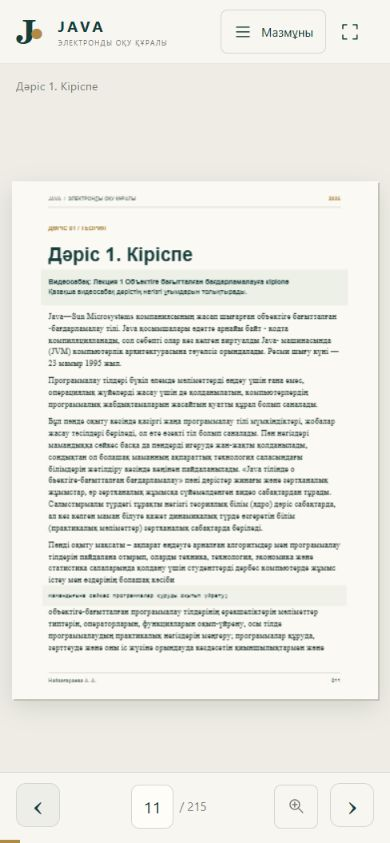
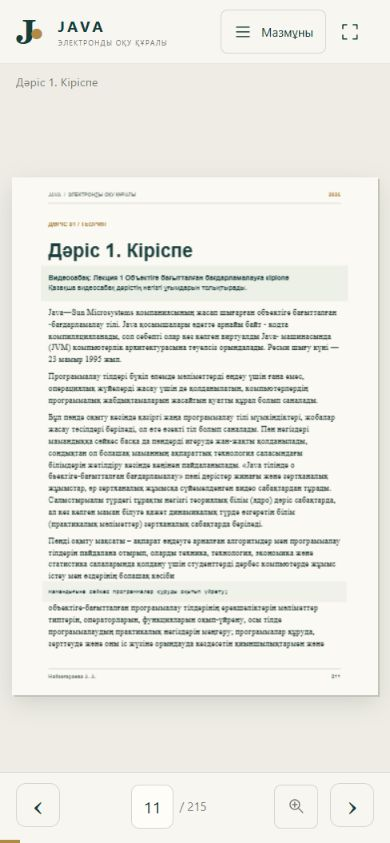
Restore phone page animations and adjustable zoom

diff --git a/app.js b/app.js
@@ -7,6 +7,8 @@ pdfjs.GlobalWorkerOptions.workerSrc = './vendor/pdf.worker.mjs';
 const $ = id => document.getElementById(id);
 let pdf, profile, pages = [], index = 0, zoom = 1, busy = false, renderVersion = 0;
 let gesture = null, curl = null, suppressClickUntil = 0, resizeTimer, warmTimer;
+let pinch = null, pan = null;
+const pointers = new Map();
 const cache = new Map(), pending = new Map();
 const reducedMotion = () => matchMedia('(prefers-reduced-motion: reduce)').matches;
 const phoneQuery = matchMedia('(max-width: 760px), (max-width: 1000px) and (max-height: 600px)');
@@ -23,9 +25,7 @@ function layout(i = index) {
   const count = pageStep(), entries = pages.slice(i, i + count), stage = $('stage');
   const width = Math.max(80, stage.clientWidth - (count === 1 ? 24 : 60));
   const height = Math.max(80, stage.clientHeight - 40);
-  // Phone pages use the available width; short landscape screens scroll
-  // vertically instead of shrinking the text into an unreadable thumbnail.
-  const scale = (count === 1 ? width / profile.width : Math.min(width / (profile.width * 2), height / profile.height)) * zoom;
+  const scale = Math.min(width / (profile.width * count), height / profile.height) * zoom;
   return {entries, scale, ratio: Math.min(devicePixelRatio || 1, 2)};
 }
 async function canvasFor(entry, width) {
@@ -77,7 +77,7 @@ async function render(direction = 0) {
   }));
   if (version !== renderVersion) return;
   let turning = curl;
-  if (direction && pageStep() === 2 && !reducedMotion() && zoom === 1 && !turning) turning = makeCurl(book, direction);
+  if (direction && !reducedMotion() && zoom === 1 && !turning) turning = makeCurl(book, direction);
   book.replaceChildren(...canvases);
   if (canvases.length === 1 && pageStep() === 2) {
     const blank = document.createElement('div'); blank.className = 'blank-page';
@@ -101,6 +101,7 @@ async function render(direction = 0) {
       }
     }
   }, 100);
+  return true;
 }
 async function go(target, direction = 0) {
   if (!pdf || busy || !Number.isFinite(target)) return;
@@ -109,7 +110,7 @@ async function go(target, direction = 0) {
   busy = true;
   const previous = index;
   try {
-    index = next; zoom = 1; updateZoom(); $('stage').scrollTo(0, 0);
+    index = next; updateZoom(); $('stage').scrollTo(0, 0);
     await render(direction);
   } catch (error) {
     console.error(error); index = previous;
@@ -122,6 +123,7 @@ function setContents(open) {
   document.body.classList.toggle('contents-open', open);
   document.querySelector('main').inert = open && phoneQuery.matches;
   document.querySelector('header').inert = open && phoneQuery.matches;
+  $('zoomControls').inert = open && phoneQuery.matches;
   requestAnimationFrame(() => render().catch(console.error));
   if (open) {
     $('closeSide').focus();
@@ -147,18 +149,47 @@ function updateZoom() {
   document.body.classList.toggle('zoomed', zoom > 1);
   $('zoomToggle').setAttribute('aria-pressed', String(zoom > 1));
   $('zoomToggle').querySelector('span').textContent = zoom > 1 ? 'Қалыпты көрініс' : 'Үлкейту';
+  $('zoomControls').hidden = zoom <= 1;
+  $('zoomRange').value = Math.round(zoom * 100);
+  $('zoomValue').textContent = `${Math.round(zoom * 100)}%`;
+  $('zoomOut').disabled = zoom <= 1;
+  $('zoomIn').disabled = zoom >= 4;
+}
+function zoomAnchor(point) {
+  const book = $('book').getBoundingClientRect(), stage = $('stage').getBoundingClientRect();
+  const x = point?.clientX ?? (stage.left + stage.width / 2);
+  const y = point?.clientY ?? (stage.top + stage.height / 2);
+  return {x:(x-book.left)/book.width,y:(y-book.top)/book.height,screenX:x-stage.left,screenY:y-stage.top};
+}
+function positionAnchor(anchor) {
+  if (zoom === 1) { $('stage').scrollTo(0,0); return; }
+  const stage = $('stage'), book = $('book');
+  stage.scrollTo(Math.max(0, book.offsetLeft + anchor.x * book.offsetWidth - anchor.screenX), Math.max(0, book.offsetTop + anchor.y * book.offsetHeight - anchor.screenY));
+}
+function previewZoom(value, anchor) {
+  const previous = zoom;
+  zoom = Math.max(1,Math.min(4,value)); updateZoom();
+  const factor = zoom / previous;
+  $('book').querySelectorAll(':scope > canvas, :scope > .blank-page').forEach(canvas => {
+    canvas.style.width = `${parseFloat(canvas.style.width) * factor}px`;
+    canvas.style.height = `${parseFloat(canvas.style.height) * factor}px`;
+  });
+  const links = $('book').querySelector('.pdf-links');
+  if (links) {
+    const scale = (Number(links.dataset.scale)||1)*factor;
+    links.dataset.scale = scale; links.style.transformOrigin = '0 0'; links.style.transform = `scale(${scale})`;
+  }
+  positionAnchor(anchor);
+}
+async function changeZoom(value, point) {
+  if (!pdf || busy || pinch) return;
+  const anchor = zoom === 1 && !point ? {x:0,y:0,screenX:0,screenY:0} : zoomAnchor(point);
+  previewZoom(value,anchor);
+  try { if (await render()) positionAnchor(anchor); }
+  catch(error) { console.error(error); toast('Үлкейту мүмкін болмады.'); }
 }
 async function toggleZoom(point) {
-  if (!pdf || busy) return;
-  const box = $('book').getBoundingClientRect();
-  const x = point ? (point.clientX - box.left) / box.width : phoneQuery.matches ? 0 : .5;
-  const y = point ? (point.clientY - box.top) / box.height : phoneQuery.matches ? 0 : .3;
-  zoom = zoom === 1 ? (phoneQuery.matches ? 1.7 : 1.6) : 1; updateZoom();
-  try {
-    await render();
-    if (zoom > 1) $('stage').scrollTo(Math.max(0, x * $('book').offsetWidth - $('stage').clientWidth / 2), Math.max(0, y * $('book').offsetHeight - $('stage').clientHeight / 2));
-    else $('stage').scrollTo(0, 0);
-  } catch (error) { console.error(error); toast('Үлкейту мүмкін болмады.'); }
+  await changeZoom(zoom === 1 ? 1.7 : 1,point);
 }
 async function loadBook() {
   $('error').hidden = true; $('loading').hidden = false;
@@ -183,6 +214,11 @@ $('pageInput').onchange = async e => { const target = Number(e.target.value); if
 $('pageInput').onkeydown = e => { if (e.key === 'Enter') { e.preventDefault(); $('pageInput').onchange(e); } };
 $('sideToggle').onclick = () => setContents($('sidebar').hidden); $('closeSide').onclick = () => setContents(false);
 $('zoomToggle').onclick = () => toggleZoom(); $('retry').onclick = loadBook;
+$('zoomOut').onclick = () => changeZoom(zoom-.25);
+$('zoomIn').onclick = () => changeZoom(zoom+.25);
+$('zoomValue').onclick = () => changeZoom(1);
+$('zoomRange').oninput = e => { if (!busy && !pinch) previewZoom(Number(e.target.value)/100,zoomAnchor()); };
+$('zoomRange').onchange = () => changeZoom(zoom);
 document.querySelector('.brand').onclick = e => { e.preventDefault(); go(0); };
 $('fullscreen').onclick = async () => {
   try { if (document.fullscreenElement) await document.exitFullscreen(); else await document.documentElement.requestFullscreen(); }
@@ -207,16 +243,46 @@ document.addEventListener('pointerdown', preparePageSound, {passive: true});
 window.addEventListener('resize', () => { clearTimeout(resizeTimer); resizeTimer = setTimeout(() => { if (!busy && !gesture) render().catch(console.error); }, 150); });
 phoneQuery.addEventListener('change', async () => {
   await cancelGesture();
+  pointers.clear(); pinch=null; pan=null;
   zoom = 1; updateZoom();
   if (pdf) index = normalizePage(index);
   setContents(false);
   $('stage').scrollTo(0, 0);
 });
 $('stage').addEventListener('pointerdown', e => {
-  if (!pdf || busy || zoom !== 1 || e.target.closest('.pdf-link') || e.pointerType === 'mouse' && e.button !== 0) return;
+  if (!pdf || busy || e.pointerType === 'mouse' && e.button !== 0) return;
+  if (e.pointerType === 'touch') {
+    pointers.set(e.pointerId,{clientX:e.clientX,clientY:e.clientY});
+    if (pointers.size === 2) {
+      gesture = null; pan = null;
+      if (curl) { curl.canvas.remove(); curl.old.style.visibility = ''; curl = null; }
+      const [a,b] = [...pointers.values()];
+      const center = {clientX:(a.clientX+b.clientX)/2,clientY:(a.clientY+b.clientY)/2};
+      pinch = {distance:Math.max(1,Math.hypot(a.clientX-b.clientX,a.clientY-b.clientY)),zoom,anchor:zoomAnchor(center)};
+      for (const id of pointers.keys()) $('stage').setPointerCapture(id);
+      suppressClickUntil = performance.now()+500;
+      return;
+    }
+  }
+  if (zoom > 1) {
+    if (e.target.closest('.pdf-link')) return;
+    pan = {id:e.pointerId,x:e.clientX,y:e.clientY,left:$('stage').scrollLeft,top:$('stage').scrollTop};
+    $('stage').setPointerCapture(e.pointerId); return;
+  }
+  if (e.target.closest('.pdf-link')) return;
   gesture = {id: e.pointerId, x: e.clientX, y: e.clientY, time: performance.now(), direction: 0};
 });
 $('stage').addEventListener('pointermove', e => {
+  if (pointers.has(e.pointerId)) pointers.set(e.pointerId,{clientX:e.clientX,clientY:e.clientY});
+  if (pinch && pointers.size >= 2) {
+    e.preventDefault(); const [a,b]=[...pointers.values()];
+    previewZoom(pinch.zoom*Math.hypot(a.clientX-b.clientX,a.clientY-b.clientY)/pinch.distance,pinch.anchor); return;
+  }
+  if (pan?.id === e.pointerId) {
+    e.preventDefault(); $('stage').scrollTo(pan.left+pan.x-e.clientX,pan.top+pan.y-e.clientY);
+    if (Math.hypot(e.clientX-pan.x,e.clientY-pan.y)>8) suppressClickUntil=performance.now()+400;
+    return;
+  }
   if (!gesture || gesture.id !== e.pointerId) return;
   const dx = e.clientX - gesture.x, dy = e.clientY - gesture.y;
   if (!gesture.direction) {
@@ -225,7 +291,7 @@ $('stage').addEventListener('pointermove', e => {
     const direction = dx < 0 ? 1 : -1;
     if (direction > 0 && index + pageStep() >= pages.length || direction < 0 && index === 0) { gesture = null; return; }
     gesture.direction = direction; $('stage').setPointerCapture(e.pointerId);
-    if (pageStep() === 2 && !reducedMotion()) curl = makeCurl($('book'), direction, gesture.y);
+    if (!reducedMotion()) curl = makeCurl($('book'), direction, gesture.y);
   }
   e.preventDefault(); gesture.distance = Math.max(0, dx * -gesture.direction);
   if (curl) { curl.dragY = Math.max(-.4, Math.min(.4, dy / curl.height)); paintCurl(curl, Math.min(.88, gesture.distance / curl.width)); }
@@ -235,6 +301,13 @@ async function cancelGesture() {
   if (curl) { busy = true; try { await finishCurl(curl, 0); } finally { curl.old.style.visibility = ''; curl = null; busy = false; } }
 }
 $('stage').addEventListener('pointerup', async e => {
+  pointers.delete(e.pointerId);
+  if (pinch) {
+    const anchor=pinch.anchor; pinch=null; pan=null; gesture=null;
+    suppressClickUntil=performance.now()+500;
+    if (await render()) positionAnchor(anchor); return;
+  }
+  if (pan?.id === e.pointerId) { pan=null; return; }
   if (!gesture || gesture.id !== e.pointerId) return;
   const current = gesture; gesture = null; if (!current.direction) return;
   suppressClickUntil = performance.now() + 400;
@@ -242,6 +315,13 @@ $('stage').addEventListener('pointerup', async e => {
   if (distance > Math.min(85, $('stage').clientWidth * .18) || distance > 28 && distance / elapsed > .35) await go(index + current.direction * pageStep(), current.direction);
   else await cancelGesture();
 });
-$('stage').addEventListener('pointercancel', cancelGesture);
+$('stage').addEventListener('pointercancel', async e => {
+  pointers.delete(e.pointerId); pinch=null; pan=null; await cancelGesture();
+  if (pdf) await render();
+});
+$('stage').addEventListener('click', e => { if (performance.now()<suppressClickUntil) { e.preventDefault(); e.stopPropagation(); } },true);
+$('stage').addEventListener('wheel', e => {
+  if (e.ctrlKey) { e.preventDefault(); changeZoom(zoom*Math.exp(-e.deltaY*.002),e); }
+},{passive:false});
 $('stage').addEventListener('dblclick', e => { if (!e.target.closest('.pdf-link') && performance.now() > suppressClickUntil) toggleZoom(e); });
 loadBook();

diff --git a/index.html b/index.html
@@ -2,7 +2,7 @@
 <html lang="kk"><head>
 <meta charset="utf-8"><meta name="viewport" content="width=device-width,initial-scale=1,viewport-fit=cover"><meta name="theme-color" content="#183e3c">
 <meta name="description" content="Java тілінде объектіге бағытталған бағдарламалау. 15 дәріс, зертханалық жұмыстар және білімді бақылау. Электронды оқу құралы, 2026.">
-<title>JAVA · Электронды оқу құралы</title><link rel="stylesheet" href="style.css?v=20261005-mobile"><link rel="stylesheet" href="reader.css?v=20261005-mobile"></head>
+<title>JAVA · Электронды оқу құралы</title><link rel="stylesheet" href="style.css?v=20261005-mobile-v3"><link rel="stylesheet" href="reader.css?v=20261005-mobile-v3"></head>
 <body>
 <header>
 <a class="brand" href="./" aria-label="Кітаптың басына"><span class="brand-mark">J<span>•</span></span><span class="brand-copy"><b>JAVA</b><small>ЭЛЕКТРОНДЫ ОҚУ ҚҰРАЛЫ</small></span></a>
@@ -14,5 +14,6 @@
 <section id="reader" aria-label="Электронды кітап"><button id="prev" class="arrow" aria-label="Алдыңғы екі бет">‹</button><div id="stage"><div id="book" class="double" aria-live="off"></div></div><button id="next" class="arrow" aria-label="Келесі екі бет">›</button></section>
 <footer><div class="footer-note">Найзағараева А. А.</div><div class="navigation"><label for="pageInput" class="sr-only">Бет нөмірі</label><input id="pageInput" type="number" inputmode="numeric" enterkeyhint="go" min="1" value="1"><span id="pageTotal"></span></div><button id="zoomToggle" aria-pressed="false" title="Оқу үшін үлкейту"><svg viewBox="0 0 24 24" aria-hidden="true"><circle cx="10" cy="10" r="6"/><path d="m15 15 5 5M7 10h6m-3-3v6"/></svg><span>Үлкейту</span></button></footer><div class="reading-progress" aria-hidden="true"><span id="progressFill"></span></div></main></div>
 <div id="loading" role="status"><div class="loading-mark">J<span>•</span></div><span id="loadingText">Кітап ашылуда…</span><div class="loading-line"></div></div>
+<div id="zoomControls" hidden role="group" aria-label="Масштабты өзгерту"><div class="zoom-buttons"><button id="zoomOut" aria-label="Кішірейту">−</button><button id="zoomValue" title="Бетке сыйдыру" aria-label="Бетке сыйдыру">100%</button><button id="zoomIn" aria-label="Үлкейту қадамы">＋</button></div><label for="zoomRange" class="sr-only">Масштаб</label><input id="zoomRange" type="range" min="100" max="400" step="5" value="100" aria-label="Масштаб"></div>
 <div id="error" hidden role="alert"><h1>Кітапты ашу мүмкін болмады</h1><p id="errorText"></p><button id="retry">Қайта ашу</button></div><div id="toast" role="status"></div>
-<script type="module" src="app.js?v=20261005-mobile"></script></body></html>
+<script type="module" src="app.js?v=20261005-mobile-v3"></script></body></html>

diff --git a/style.css b/style.css
@@ -35,3 +35,6 @@ button,a,input{-webkit-tap-highlight-color:transparent}button{touch-action:manip
  header{height:52px}.workspace{height:calc(100dvh - 52px)}.topline{height:30px;min-height:30px}footer{height:56px;min-height:56px}.arrow{bottom:calc(9px + env(safe-area-inset-bottom))}
 }
 @media(max-width:360px){.brand-copy small{font-size:6px;letter-spacing:.6px}.header-tools{gap:0}#fullscreen{display:none}#sideToggle{padding:10px;font-size:11px}footer{padding-left:68px;padding-right:68px}.navigation{gap:4px}#zoomToggle{min-width:40px;width:40px}}
+#stage{position:relative}#zoomControls{position:fixed;z-index:11;left:50%;transform:translateX(-50%);bottom:80px;width:260px;padding:6px 12px 10px;background:#f8f6f0f5;border:1px solid var(--line);border-radius:14px;box-shadow:0 8px 25px #183e3c25;backdrop-filter:blur(12px)}.zoom-buttons{display:flex;align-items:center;justify-content:space-between}.zoom-buttons button{height:44px;min-width:44px;font-size:23px}#zoomValue{font-size:13px;font-weight:600}#zoomRange{width:100%;height:28px;margin:0;accent-color:var(--ink);touch-action:none;cursor:pointer}body.zoomed #stage{touch-action:none;cursor:grab}body.zoomed #stage:active{cursor:grabbing}
+@media(max-width:760px),(max-width:1000px) and (max-height:600px){#stage{touch-action:none}#zoomControls{bottom:calc(82px + env(safe-area-inset-bottom));width:min(260px,calc(100vw - 32px))}body.zoomed #stage{touch-action:none}.topline{height:36px;min-height:36px}#stage{padding:12px}}
+@media(max-width:1000px) and (max-height:500px){#zoomControls{left:auto;right:16px;transform:none;bottom:calc(66px + env(safe-area-inset-bottom));width:220px}}

diff --git a/README.md b/README.md
@@ -1,8 +1,8 @@
 # JAVA — электронды оқу құралы, 2026
 
-Читалка сразу открывает output/pdf/java-reader.pdf. На компьютере — два книжных листа, на телефоне — одна страница во всю ширину. Доступны перелистывание, оглавление, увеличение и полный экран. Позиция сохраняется локально. Названия лекций открывают видеосабақ в новой вкладке. Интерфейс на казахском языке.
+Читалка сразу открывает output/pdf/java-reader.pdf. На компьютере — два книжных листа, на телефоне — одна страница целиком в экране. Доступны перелистывание, оглавление, увеличение и полный экран. Позиция сохраняется локально. Названия лекций открывают видеосабақ в новой вкладке. Интерфейс на казахском языке.
 
-На телефоне кнопки перелистывания находятся в нижней панели, оглавление открывается на весь экран, а числовая клавиатура помогает перейти к странице. Свайп перелистывает один лист. Увеличенную страницу можно перемещать пальцем; на коротком экране доступна вертикальная прокрутка. Учитываются безопасные отступы экрана. В адресах CSS и основного JavaScript указан номер версии для обновления браузерного кэша после деплоя.
+На телефоне кнопки перелистывания находятся в нижней панели, оглавление открывается на весь экран, а числовая клавиатура помогает перейти к странице. Свайп перелистывает один лист. Перелистывание сопровождается изгибом листа, включая телефоны. Увеличенную страницу можно перемещать пальцем или мышью. Масштаб 100–400% регулируется кнопками, ползунком, жестом двумя пальцами или Ctrl + колёсиком. Процент масштаба служит кнопкой сброса к целому листу. Увеличение сохраняется при перелистывании. Учитываются безопасные отступы экрана. В адресах CSS и основного JavaScript указан номер версии для обновления браузерного кэша после деплоя.
 
 ## Содержание
 
@@ -23,3 +23,5 @@ python scripts/build_book.py создаёт PDF, карту оглавления
 python scripts/verify_book.py проверяет формат страниц, границы текста, год, символы, ссылки, задания и начало тем. Результат: output/pdf/verification.json и изображения всех страниц в tmp/pdfs для визуальной проверки. JavaScript: npm run check.
 
 PDF.js хранится локально в vendor. Шрифты встроены в книгу. Звук: Mixkit «Page turn single» (1104), https://mixkit.co/free-sound-effects/paper/ ; лицензия https://mixkit.co/license/#sfxFree . При системном предпочтении уменьшенной анимации звук и анимация отключаются.
+
+Проверка двух пальцев и перемещения: node scripts/check-reader-gestures.mjs (события обработчиков в изолированной модели DOM; не заменяет проверку на физическом устройстве).
